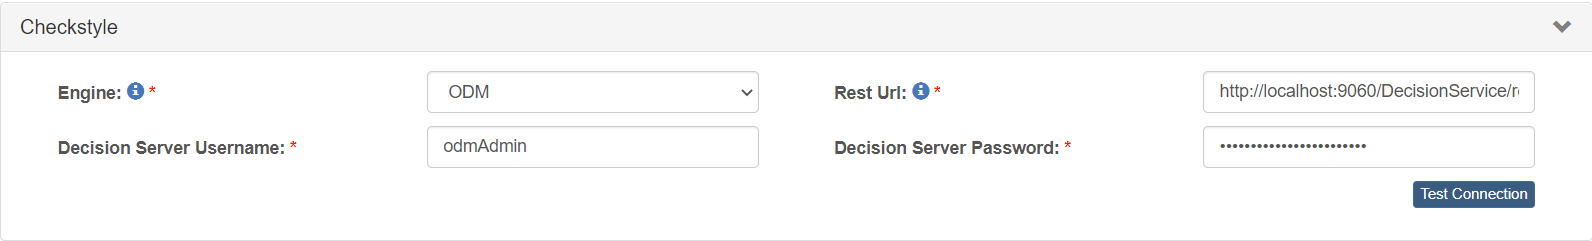
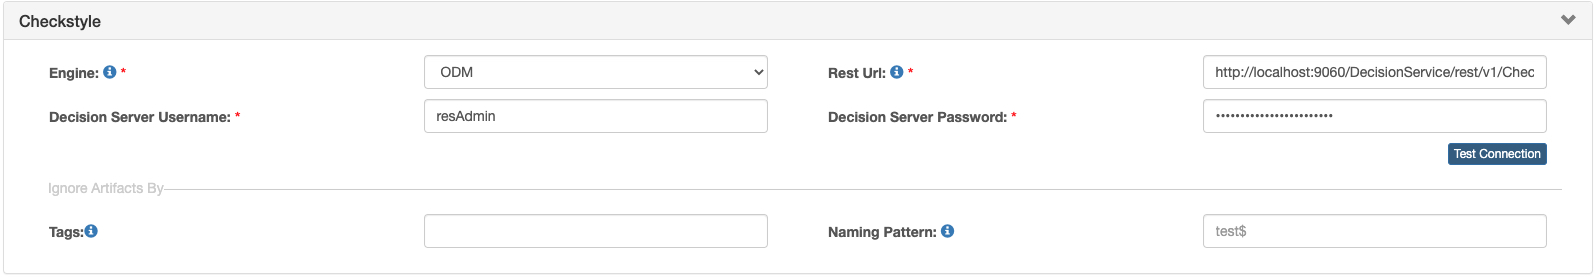
update 3839 for settings

diff --git a/_posts/2018-10-17-administration-settings-configuration.md b/_posts/2018-10-17-administration-settings-configuration.md
@@ -2,7 +2,7 @@
 title: "Settings Configuration"
 category: administration
 date: 2018-10-17 15:17:55
-last_modified_at: 2023-02-28 14:25:00
+last_modified_at: 2023-03-30 11:28:00
 ---
 
 # Settings Configuration
@@ -61,6 +61,8 @@ Decision Server Username | Decision Server Username
 Decision Server Password | Decision Server Password
 Decision Server URL | Decision server url, Replace localhost with the hostname or ip address of Rule Execution Server
 Decision Server Port | The port of decision server
+Tags | These will be used to ignore artifacts by tag(s). For example: test.
+Naming Pattern | This pattern will be used to ignore artifacts by name. Pattern supports variables test$, ^test.
 
 ## Pipeline configuration
 
